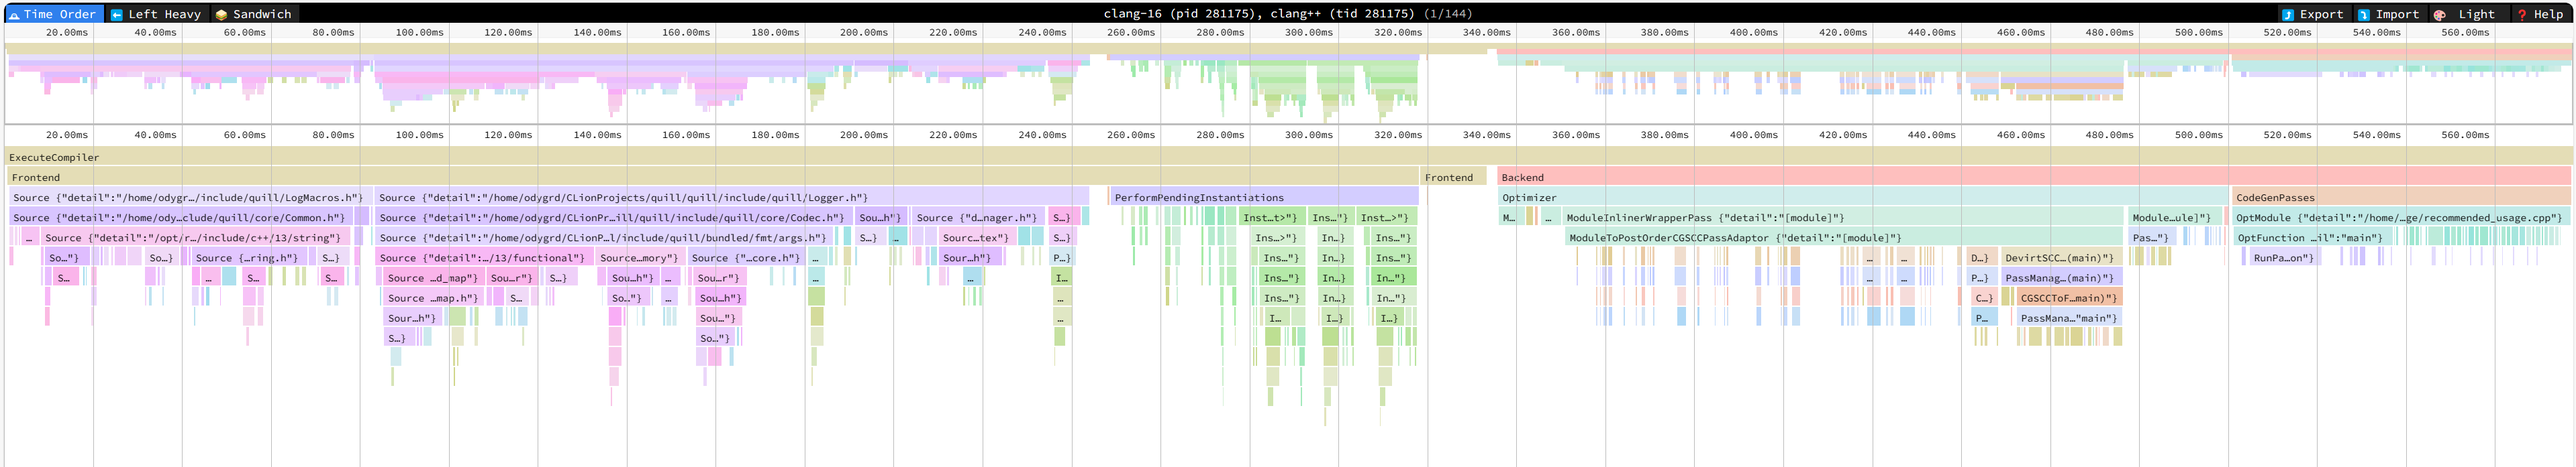
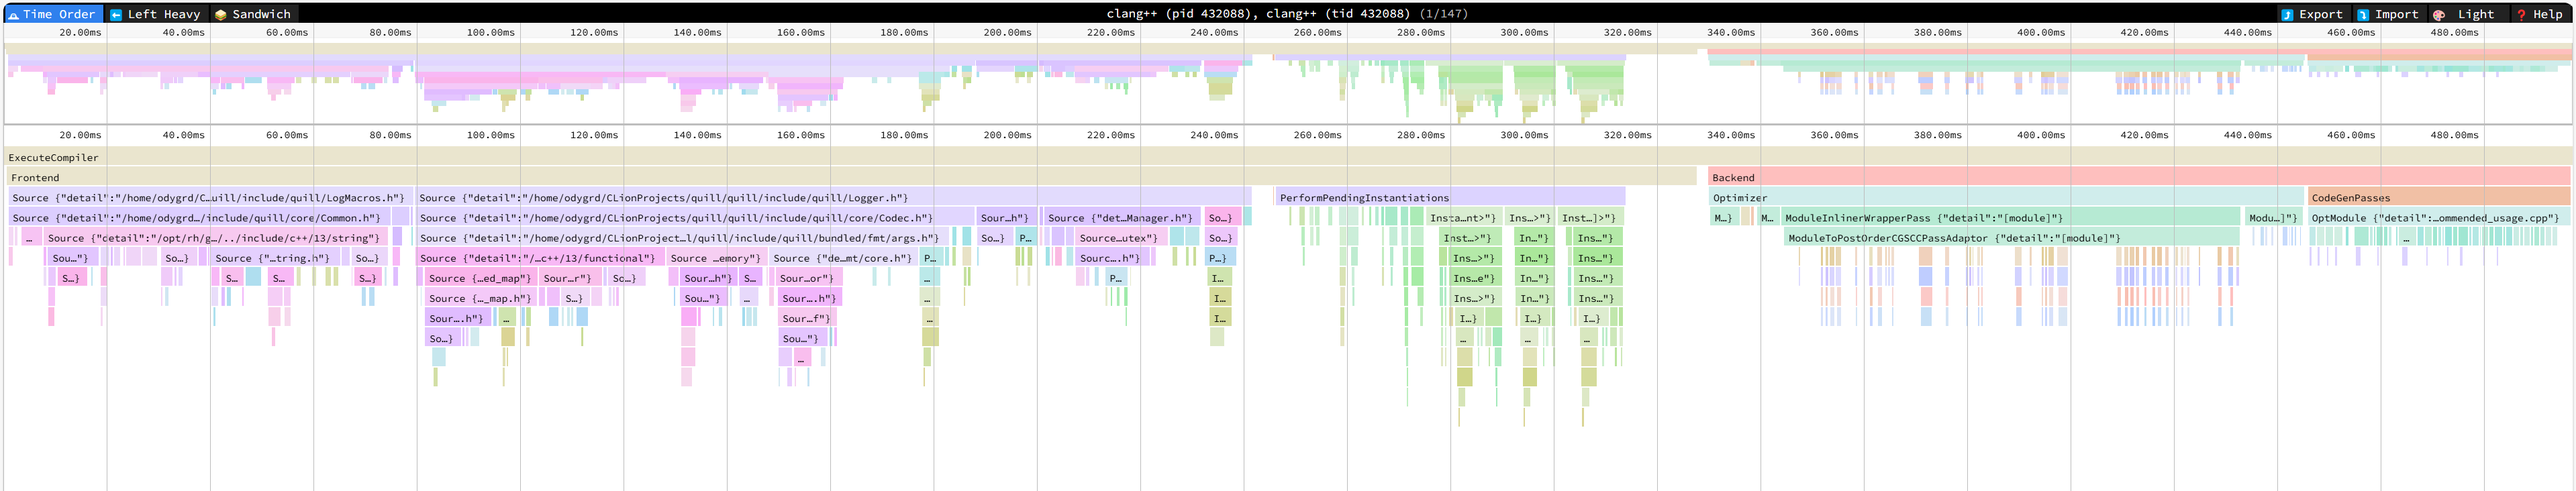
v4

diff --git a/README.md b/README.md
@@ -182,14 +182,14 @@ The following message is logged 100'000 times for each thread:
 
 `LOG_INFO(logger, "Logging int: {}, int: {}, double: {}", i, j, d)`.
 
-##### 1 Thread
+##### 1 Thread Logging
 
 | Library                                                             | 50th | 75th | 90th | 95th | 99th | 99.9th |
 |---------------------------------------------------------------------|:----:|:----:|:----:|:----:|:----:|:------:|
-| [Quill v4.0 Bounded Dropping Queue](http://github.com/odygrd/quill) |  7   |  7   |  8   |  8   |  9   |   10   |
+| [Quill v4.0 Bounded Dropping Queue](http://github.com/odygrd/quill) |  6   |  6   |  7   |  8   |  9   |   10   |
 | [fmtlog](http://github.com/MengRao/fmtlog)                          |  8   |  8   |  9   |  9   |  10  |   13   |
 | [Quill v3.8 Unbounded Queue](http://github.com/odygrd/quill)        |  8   |  8   |  9   |  9   |  10  |   13   |
-| [Quill v4.0 Unbounded Queue](http://github.com/odygrd/quill)        |  9   |  9   |  10  |  10  |  11  |   14   |
+| [Quill v4.0 Unbounded Queue](http://github.com/odygrd/quill)        |  8   |  8   |  9   |  10  |  11  |   13   |
 | [PlatformLab NanoLog](http://github.com/PlatformLab/NanoLog)        |  11  |  12  |  13  |  14  |  15  |   20   |
 | [MS BinLog](http://github.com/Morgan-Stanley/binlog)                |  21  |  21  |  22  |  24  |  28  |   57   |
 | [Reckless](http://github.com/mattiasflodin/reckless)                |  41  |  45  |  47  |  48  |  49  |   69   |
@@ -197,14 +197,14 @@ The following message is logged 100'000 times for each thread:
 | [spdlog](http://github.com/gabime/spdlog)                           | 148  | 153  | 159  | 163  | 169  |  176   |    
 | [g3log](http://github.com/KjellKod/g3log)                           | 1192 | 1282 | 1363 | 1440 | 1624 |  1802  |
 
-##### 4 Threads
+##### 4 Threads Logging Simultaneously
 
 | Library                                                             | 50th | 75th | 90th | 95th | 99th | 99.9th |
 |---------------------------------------------------------------------|:----:|:----:|:----:|:----:|:----:|:------:|
-| [Quill v4.0 Bounded Dropping Queue](http://github.com/odygrd/quill) |  7   |  8   |  9   |  9   |  10  |   12   |
+| [Quill v4.0 Bounded Dropping Queue](http://github.com/odygrd/quill) |  6   |  7   |  8   |  9   |  9   |   11   |
 | [fmtlog](http://github.com/MengRao/fmtlog)                          |  8   |  8   |  9   |  9   |  11  |   13   |
 | [Quill v3.8 Unbounded Queue](http://github.com/odygrd/quill)        |  8   |  9   |  10  |  10  |  11  |   13   |
-| [Quill v4.0 Unbounded Queue](http://github.com/odygrd/quill)        |  8   |  9   |  10  |  10  |  11  |   14   |
+| [Quill v4.0 Unbounded Queue](http://github.com/odygrd/quill)        |  9   |  9   |  11  |  11  |  12  |   14   |
 | [PlatformLab NanoLog](http://github.com/PlatformLab/NanoLog)        |  12  |  13  |  13  |  14  |  15  |   19   |
 | [MS BinLog](http://github.com/Morgan-Stanley/binlog)                |  21  |  21  |  22  |  22  |  29  |   62   |
 | [Reckless](http://github.com/mattiasflodin/reckless)                |  42  |  46  |  47  |  48  |  54  |   78   |
@@ -221,30 +221,30 @@ The following message is logged 100'000 times for each thread:
 The large string used in the log message is over 35 characters to prevent the short string optimization
 of `std::string`.
 
-##### 1 Thread
+##### 1 Thread Logging
 
 | Library                                                             | 50th | 75th | 90th | 95th | 99th | 99.9th |
 |---------------------------------------------------------------------|:----:|:----:|:----:|:----:|:----:|:------:|
 | [Quill v3.8 Unbounded Queue](http://github.com/odygrd/quill)        |  10  |  12  |  13  |  13  |  14  |   16   |
 | [fmtlog](http://github.com/MengRao/fmtlog)                          |  11  |  12  |  13  |  14  |  15  |   17   |
-| [Quill v4.0 Bounded Dropping Queue](http://github.com/odygrd/quill) |  11  |  12  |  13  |  14  |  16  |   17   |
+| [Quill v4.0 Bounded Dropping Queue](http://github.com/odygrd/quill) |  11  |  12  |  13  |  14  |  15  |   17   |
 | [PlatformLab NanoLog](http://github.com/PlatformLab/NanoLog)        |  13  |  14  |  15  |  15  |  17  |   19   |
-| [Quill v4.0 Unbounded Queue](http://github.com/odygrd/quill)        |  13  |  14  |  15  |  16  |  18  |   21   |
+| [Quill v4.0 Unbounded Queue](http://github.com/odygrd/quill)        |  13  |  14  |  15  |  16  |  17  |   21   |
 | [MS BinLog](http://github.com/Morgan-Stanley/binlog)                |  22  |  23  |  23  |  25  |  30  |   59   |
 | [Iyengar NanoLog](http://github.com/Iyengar111/NanoLog)             |  52  |  55  |  64  |  83  | 114  |  160   |
 | [Reckless](http://github.com/mattiasflodin/reckless)                | 102  | 122  | 134  | 137  | 143  |  153   |
 | [spdlog](http://github.com/gabime/spdlog)                           | 120  | 123  | 127  | 130  | 138  |  145   |    
 | [g3log](http://github.com/KjellKod/g3log)                           | 955  | 1049 | 1129 | 1190 | 1351 |  1539  |
 
-##### 4 Threads
+##### 4 Threads Logging Simultaneously
 
 | Library                                                             | 50th | 75th | 90th | 95th | 99th | 99.9th |
 |---------------------------------------------------------------------|:----:|:----:|:----:|:----:|:----:|:------:|
+| [Quill v4.0 Bounded Dropping Queue](http://github.com/odygrd/quill) |  11  |  12  |  13  |  14  |  15  |   17   |
 | [fmtlog](http://github.com/MengRao/fmtlog)                          |  11  |  12  |  13  |  15  |  16  |   18   |
-| [Quill v4.0 Bounded Dropping Queue](http://github.com/odygrd/quill) |  11  |  13  |  14  |  14  |  16  |   17   |
 | [Quill v3.8 Unbounded Queue](http://github.com/odygrd/quill)        |  12  |  13  |  14  |  15  |  16  |   19   |
 | [PlatformLab NanoLog](http://github.com/PlatformLab/NanoLog)        |  13  |  15  |  15  |  16  |  17  |   20   |
-| [Quill v4.0 Unbounded Queue](http://github.com/odygrd/quill)        |  13  |  15  |  16  |  17  |  19  |   22   |
+| [Quill v4.0 Unbounded Queue](http://github.com/odygrd/quill)        |  14  |  15  |  16  |  17  |  19  |   22   |
 | [MS BinLog](http://github.com/Morgan-Stanley/binlog)                |  23  |  24  |  24  |  25  |  31  |   62   |
 | [Iyengar NanoLog](http://github.com/Iyengar111/NanoLog)             |  53  |  60  |  92  | 121  | 149  |  212   |
 | [Reckless](http://github.com/mattiasflodin/reckless)                | 101  | 121  | 133  | 136  | 143  |  160   |
@@ -260,24 +260,24 @@ The following message is logged 100'000 times for each thread:
 Logging `std::vector<std::string> v` containing 16 large strings, each ranging from 50 to 60 characters.
 The strings used in the log message are over 35 characters to prevent the short string optimization of `std::string`.
 
-##### 1 Thread
+##### 1 Thread Logging
 
 | Library                                                             | 50th | 75th | 90th | 95th | 99th | 99.9th |
 |---------------------------------------------------------------------|:----:|:----:|:----:|:----:|:----:|:------:|
-| [Quill v4.0 Bounded Dropping Queue](http://github.com/odygrd/quill) |  51  |  53  |  55  |  56  |  59  |   69   |
-| [Quill v4.0 Unbounded Queue](http://github.com/odygrd/quill)        |  52  |  53  |  56  |  57  |  59  |   63   |
+| [Quill v4.0 Bounded Dropping Queue](http://github.com/odygrd/quill) |  50  |  53  |  55  |  56  |  59  |  107   | 
+| [Quill v4.0 Unbounded Queue](http://github.com/odygrd/quill)        |  53  |  55  |  57  |  58  |  61  |   64   |
 | [MS BinLog](http://github.com/Morgan-Stanley/binlog)                |  66  |  70  |  79  |  81  |  84  |   91   |
 | [Quill v3.8 Unbounded Queue](http://github.com/odygrd/quill)        | 632  | 651  | 676  | 698  | 737  |  1049  | 
 | [fmtlog](http://github.com/MengRao/fmtlog)                          | 724  | 752  | 776  | 789  | 814  |  857   |
 | [spdlog](http://github.com/gabime/spdlog)                           | 6242 | 6331 | 6438 | 6523 | 6782 |  7341  |
 
-##### 4 Threads
+##### 4 Threads Logging Simultaneously
 
 | Library                                                             | 50th | 75th | 90th | 95th | 99th | 99.9th |
 |---------------------------------------------------------------------|:----:|:----:|:----:|:----:|:----:|:------:|
-| [Quill v4.0 Bounded Dropping Queue](http://github.com/odygrd/quill) |  54  |  56  |  58  |  59  |  62  |   74   |
+| [Quill v4.0 Bounded Dropping Queue](http://github.com/odygrd/quill) |  51  |  54  |  56  |  58  |  61  |   78   |
 | [MS BinLog](http://github.com/Morgan-Stanley/binlog)                |  70  |  74  |  83  |  85  |  88  |  102   |
-| [Quill v4.0 Unbounded Queue](http://github.com/odygrd/quill)        |  87  |  92  |  98  | 102  | 109  |  119   |
+| [Quill v4.0 Unbounded Queue](http://github.com/odygrd/quill)        |  90  |  99  | 109  | 117  | 131  |  151   |
 | [Quill v3.8 Unbounded Queue](http://github.com/odygrd/quill)        | 674  | 694  | 736  | 762  | 805  |  884   |
 | [fmtlog](http://github.com/MengRao/fmtlog)                          | 789  | 813  | 833  | 845  | 872  |  908   |
 | [spdlog](http://github.com/gabime/spdlog)                           | 6500 | 6596 | 6724 | 6848 | 7560 |  9036  |
@@ -471,13 +471,13 @@ When invoking a `LOG_` macro:
 
 2. Pushes the data SPSC lock-free queue. For each log message, the following variables are pushed
 
-| Variable   |                                                Description                                                |
-|------------|:---------------------------------------------------------------------------------------------------------:|
-| timestamp  |                                             Current timestamp                                             |
-| Metadata*  |                                      Pointer to metadata information                                      |
-| Logger*    |                                      Pointer to the logger instance                                       |
+| Variable   |                                                  Description                                                   |
+|------------|:--------------------------------------------------------------------------------------------------------------:|
+| timestamp  |                                               Current timestamp                                                |
+| Metadata*  |                                        Pointer to metadata information                                         |
+| Logger*    |                                         Pointer to the logger instance                                         |
 | DecodeFunc | A pointer to a templated function containing all the log message argument types, used for decoding the message |
-| Args...    |               A serialized binary copy of each log message argument that was passed to the `LOG_` macro |
+| Args...    |           A serialized binary copy of each log message argument that was passed to the `LOG_` macro            |
 
 ### Backend
 

diff --git a/CHANGELOG.md b/CHANGELOG.md
@@ -72,15 +72,26 @@ Bug fixes and releases for `v3` will continue to be supported under the `v3.x.x`
 
 #### Comparison
 
-- This version significantly improves compile times by minimizing the inclusion of several headers. Taking a
-  look at some compiler profiling for a `Release` build, we can see the difference. Below are the two compiler
-  flamegraphs for building the `recommended_usage` example from the new version and the `wrapper_lib` example from the
-  previous version.
+- This version significantly improves compile times. Taking a look at some compiler profiling for a `Release` build with
+  clang 15, we can see the difference. Below are the two compiler flamegraphs for building the `recommended_usage`
+  example from the new version and the `wrapper_lib` example from the previous version.
+
+The below flamegraph shows the difference in included headers between the two versions
 
 | Version |                                     Compiler FlameGraph                                      |
 |---------|:--------------------------------------------------------------------------------------------:|
 | v4.0.0  | ![quill_v4_compiler_profile.speedscope.png](docs%2Fquill_v4_compiler_profile.speedscope.png) |
 | v3.8.0  | ![quill_v3_compiler_profile.speedscope.png](docs%2Fquill_v3_compiler_profile.speedscope.png) |
+
+A new compiler benchmark has been introduced. A Python script generates 2000 distinct log statements with various
+arguments. You can find the
+benchmark [here](https://github.com/odygrd/quill/blob/master/benchmarks/compile_time_bench.cpp).
+In the latest version, compilation takes only 30 seconds, whereas the previous version required over 4 minutes.
+
+| Version |                                   Compiler FlameGraph                                    |
+|---------|:----------------------------------------------------------------------------------------:|
+| v4.0.0  | ![quill_v4_compiler_bench.speedscope.png](docs%2Fquill_v4_compiler_bench.speedscope.png) |
+| v3.8.0  | ![quill_v3_compiler_bench.speedscope.png](docs%2Fquill_v3_compiler_bench.speedscope.png) |
 
 - Minor increase in backend thread throughput compared to the previous version.
 
@@ -97,10 +108,9 @@ Bug fixes and releases for `v3` will continue to be supported under the `v3.x.x`
 
 - **Improved compile times**
 
-Significant enhancements in compile times have been achieved by restructuring the library to minimize the number of
-required headers. Refactoring efforts have focused on decoupling the frontend from the backend, resulting in reduced
-dependencies. Accessing the frontend logging functions now does not demand
-inclusion of any backend logic components.
+The library has been restructured to minimize the number of required headers. Refactoring efforts have focused on
+decoupling the frontend from the backend, resulting in reduced dependencies. Accessing the frontend logging functions
+now does not demand inclusion of any backend logic components.
 
      "quill/Backend.h" - It can be included once to start the backend logging thread, typically in main.cpp 
                          or in a wrapper library.
@@ -160,7 +170,8 @@ to [advanced_example](https://github.com/odygrd/quill/blob/master/examples/advan
 - **Header-Only library**
 
 The library is now header-only. This change simplifies exporting the library as a C++ module in the future. See
-the [recommended_usage](https://github.com/odygrd/quill/blob/master/examples/recommended_usage/recommended_usage.cpp) on how to build a
+the [recommended_usage](https://github.com/odygrd/quill/blob/master/examples/recommended_usage/recommended_usage.cpp) on
+how to build a
 wrapper static library which includes the backend and will minimise the compile times.
 
 - **Preprocessor flags moved to template parameters**
